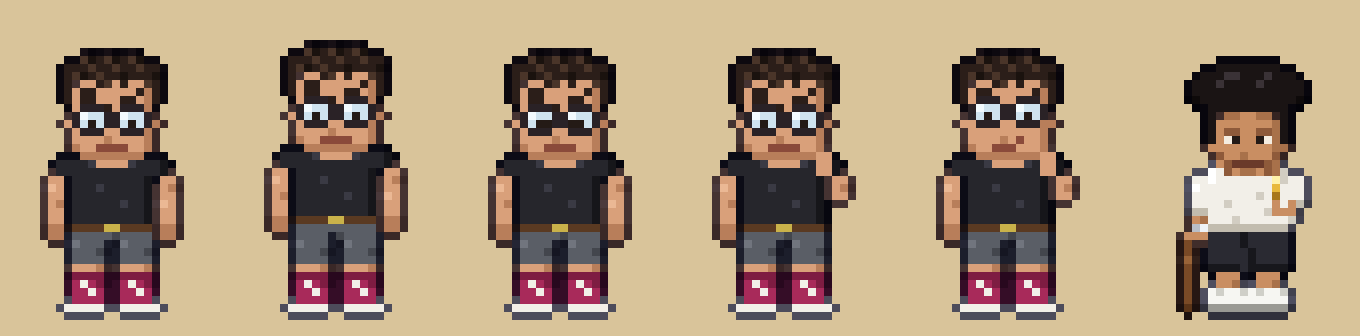
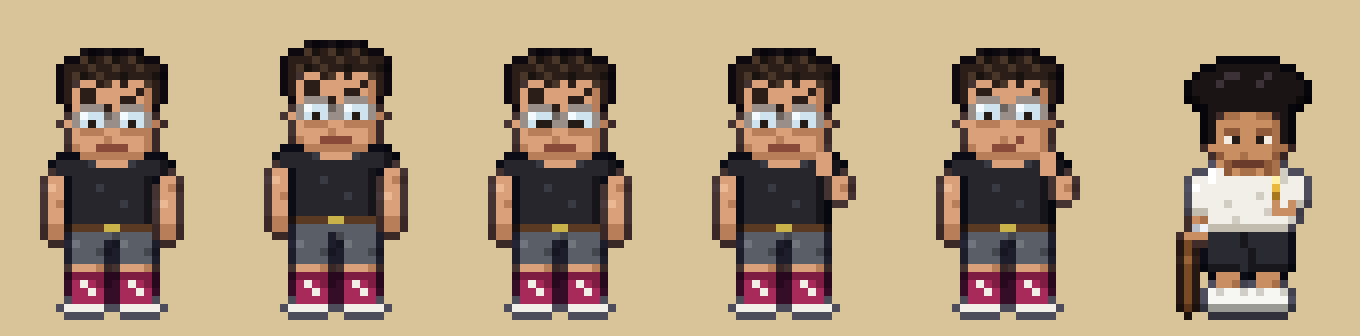
Bins: thinner, lighter glasses frames [skip ci]
Claude-Session: https://claude.ai/code/session_01DcRsQ77FYXtVXyNejf31QG

diff --git a/tools/bins.py b/tools/bins.py
@@ -16,7 +16,7 @@ Q = dict(skin=C('#d9a07a'), skinS=C('#b87e5a'), skinL=C('#ebb894'), eye=C('#241a
          shirt=C('#26262c'), shirtS=C('#16161a'), shirtL=C('#3a3a44'),
          sh=C('#5a5e66'), shS=C('#43464d'), shL=C('#71757e'),
          shoe=C('#a82a5a'), shoeS=C('#7e1c42'), shoeL=C('#cf4a7c'), sole=C('#f2efe8'), lace=C('#f2efe8'),
-         frame=C('#2a2226'), lens=C('#cfe3ef'), lensL=C('#f2fafe'), mouth=C('#8a4a3a'))
+         frame=C('#9a8f88'), frameD=C('#6e645e'), lens=C('#cfe3ef'), lensL=C('#f2fafe'), mouth=C('#8a4a3a'))
 
 def seller(pose):
     """pose: idle | breath | blink | push | push2"""
@@ -68,9 +68,10 @@ def seller(pose):
     for (x, y) in ((6, -1), (7, 0)): X(x, y + Y, Q['hairL'])
     # big oval glasses
     for x0 in (3, 8):
-        for (x, y) in ((1, 0), (2, 0), (3, 0), (0, 1), (4, 1), (0, 2), (4, 2), (1, 3), (2, 3), (3, 3)): X(x0 + x, 3 + y + Y + gy, Q['frame'])
+        for (x, y) in ((1, 0), (2, 0), (3, 0), (0, 1), (4, 1), (0, 2), (4, 2)): X(x0 + x, 3 + y + Y + gy, Q['frame'])   # thin metal rim
+        for (x, y) in ((1, 3), (2, 3), (3, 3)): X(x0 + x, 3 + y + Y + gy, Q['skinS'])                            # lower rim barely shows
         R(x0 + 1, 4 + Y + gy, 3, 2, Q['lens']); X(x0 + 1, 4 + Y + gy, Q['lensL'])
-    X(7, 4 + Y + gy, Q['frame'])                                                   # bridge (frames share x=7/8 edge)
+    X(7, 4 + Y + gy, Q['frameD'])                                                  # bridge (frames share x=7/8 edge)
     # eyes (inside the lenses)
     if pose == 'blink': R(5, 5 + Y + gy, 2, 1, Q['eye']); R(9, 5 + Y + gy, 2, 1, Q['eye'])
     else: X(5, 5 + Y + gy, Q['eye']); X(10, 5 + Y + gy, Q['eye'])
